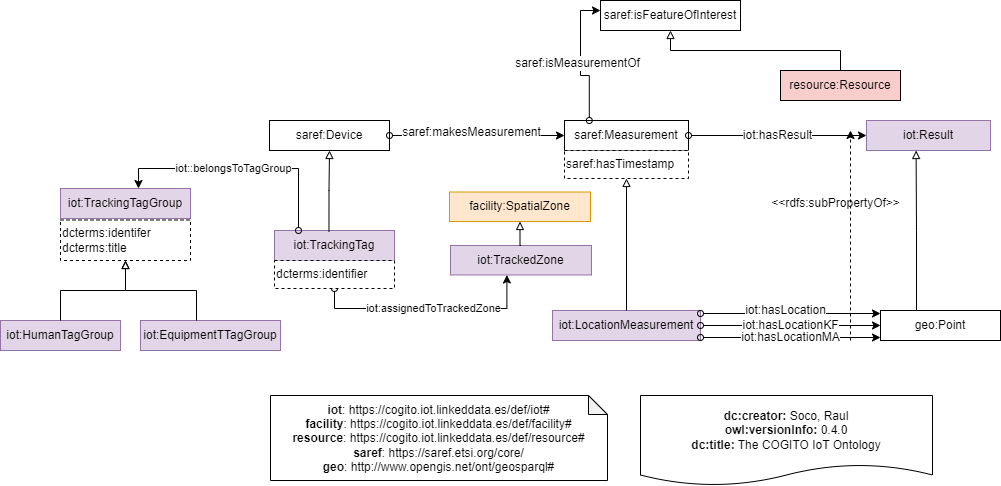
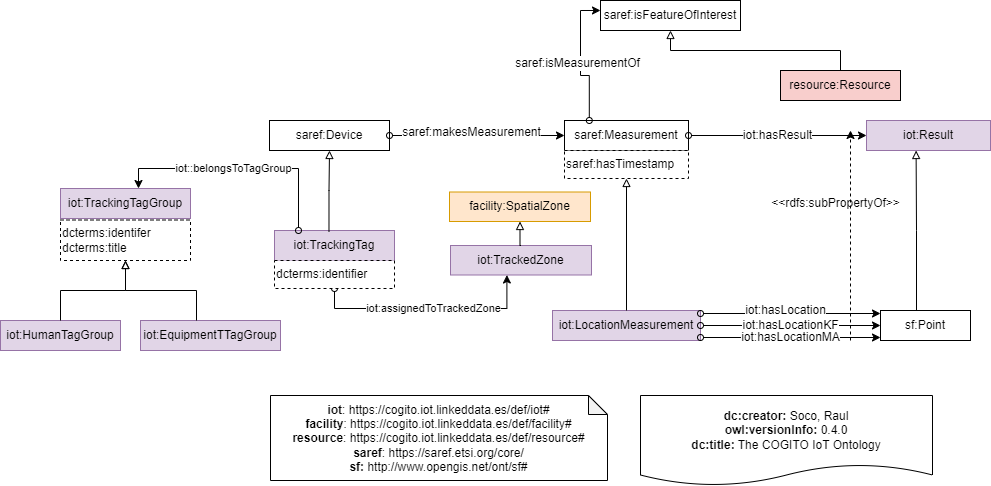
v0.4.0 update
geo ontology replaced by sf ontology

diff --git a/documentation/index-en.html b/documentation/index-en.html
@@ -6,7 +6,7 @@
 
 
 <!-- SCHEMA.ORG METADATA -->
-<script type="application/ld+json">{"@context":"https://schema.org","@type":"TechArticle","url":"https://cogito.iot.linkeddata.es/def/iot#","image":"http://vowl.visualdataweb.org/webvowl/#iri=https://cogito.iot.linkeddata.es/def/iot#","name":"IoT ontology", "headline":"The COGITO IoT ontology aims at modelling IoT devices and their measurements in the construction domain.", "datePublished":"Fri Jan 13 12:40:12 CET 2023", "version":"0.4.0", "license":"http://purl.org/NET/rdflicense/cc-by4.0", "author":[{"@type":"Person","name":"María Poveda Villalón"},{"@type":"Person","name":"Raúl García Castro"},{"@type":"Person","name":"Socorro  Bernardos Galindo"}]}</script>
+<script type="application/ld+json">{"@context":"https://schema.org","@type":"TechArticle","url":"https://cogito.iot.linkeddata.es/def/iot#","image":"http://vowl.visualdataweb.org/webvowl/#iri=https://cogito.iot.linkeddata.es/def/iot#","name":"IoT ontology", "headline":"The COGITO IoT ontology aims at modelling IoT devices and their measurements in the construction domain.", "datePublished":"Thu Apr 20 14:49:17 CEST 2023", "version":"0.4.0", "license":"http://purl.org/NET/rdflicense/cc-by4.0", "author":[{"@type":"Person","name":"María Poveda Villalón"},{"@type":"Person","name":"Raúl García Castro"},{"@type":"Person","name":"Socorro  Bernardos Galindo"}]}</script>
 
 <script src="resources/jquery.js"></script> 
 <script src="resources/marked.min.js"></script> 
@@ -99,11 +99,12 @@ This document describes the results of the IoT ontology for the COGITO project.<
 <tr><td><b>saref</b></td><td>&lt;https://saref.etsi.org/core&gt;</td></tr>
 <tr><td><b>xsd</b></td><td>&lt;http://www.w3.org/2001/XMLSchema&gt;</td></tr>
 <tr><td><b>rdfs</b></td><td>&lt;http://www.w3.org/2000/01/rdf-schema&gt;</td></tr>
-<tr><td><b>geo</b></td><td>&lt;http://www.opengis.net/ont/geosparql&gt;</td></tr>
 <tr><td><b>core</b></td><td>&lt;https://saref.etsi.org/core&gt;</td></tr>
+<tr><td><b>sf</b></td><td>&lt;http://www.opengis.net/ont/sf&gt;</td></tr>
 <tr><td><b>rdf</b></td><td>&lt;http://www.w3.org/1999/02/22-rdf-syntax-ns&gt;</td></tr>
 <tr><td><b>terms</b></td><td>&lt;http://purl.org/dc/terms&gt;</td></tr>
 <tr><td><b>xml</b></td><td>&lt;http://www.w3.org/XML/1998/namespace&gt;</td></tr>
+<tr><td><b>sfl</b></td><td>&lt;http://www.opengis.net/ont/sfl&gt;</td></tr>
 <tr><td><b>dcterms</b></td><td>&lt;http://purl.org/dc/terms/&gt;</td></tr>
 <tr><td><b>facility</b></td><td>&lt;https://cogito.iot.linkeddata.es/def/facility&gt;</td></tr>
 <tr><td><b>dc</b></td><td>&lt;http://purl.org/dc/elements/1.1&gt;</td></tr>
@@ -142,7 +143,7 @@ This ontology has the following classes and properties.</span>
       <a href="#https://saref.etsi.org/core/Measurement" title="https://saref.etsi.org/core/Measurement">Measurement</a>
    </li>
    <li>
-      <a href="#http://www.opengis.net/ont/geosparql#Point" title="http://www.opengis.net/ont/geosparql#Point">Point</a>
+      <a href="#http://www.opengis.net/ont/sfl#Point" title="http://www.opengis.net/ont/sfl#Point">Point</a>
    </li>
    <li>
       <a href="#https://cogito.iot.linkeddata.es/def/resource#Resource"
@@ -250,7 +251,7 @@ This section provides details for each class and property defined by IoT ontolog
          <a href="#https://saref.etsi.org/core/Measurement" title="https://saref.etsi.org/core/Measurement">Measurement</a>
       </li>
       <li>
-         <a href="#http://www.opengis.net/ont/geosparql#Point" title="http://www.opengis.net/ont/geosparql#Point">Point</a>
+         <a href="#http://www.opengis.net/ont/sfl#Point" title="http://www.opengis.net/ont/sfl#Point">Point</a>
       </li>
       <li>
          <a href="#https://cogito.iot.linkeddata.es/def/resource#Resource"
@@ -400,13 +401,13 @@ This section provides details for each class and property defined by IoT ontolog
          </dd>
       </dl>
    </div>
-   <div class="entity" id="http://www.opengis.net/ont/geosparql#Point">
+   <div class="entity" id="http://www.opengis.net/ont/sfl#Point">
       <h3>Point<sup class="type-c" title="class">c</sup>
          <span class="backlink"> back to <a href="#toc">ToC</a> or <a href="#classes">Class ToC</a>
          </span>
       </h3>
       <p>
-         <strong>IRI:</strong> http://www.opengis.net/ont/geosparql#Point</p>
+         <strong>IRI:</strong> http://www.opengis.net/ont/sfl#Point</p>
       <dl class="definedBy">
          <dt>Is defined by</dt>
          <dd>
@@ -452,7 +453,7 @@ This section provides details for each class and property defined by IoT ontolog
       <dl class="description">
          <dt>has sub-classes</dt>
          <dd>
-            <a href="#http://www.opengis.net/ont/geosparql#Point" title="http://www.opengis.net/ont/geosparql#Point">Point</a>
+            <a href="#http://www.opengis.net/ont/sfl#Point" title="http://www.opengis.net/ont/sfl#Point">Point</a>
             <sup class="type-c" title="class">c</sup>
          </dd>
       </dl>
